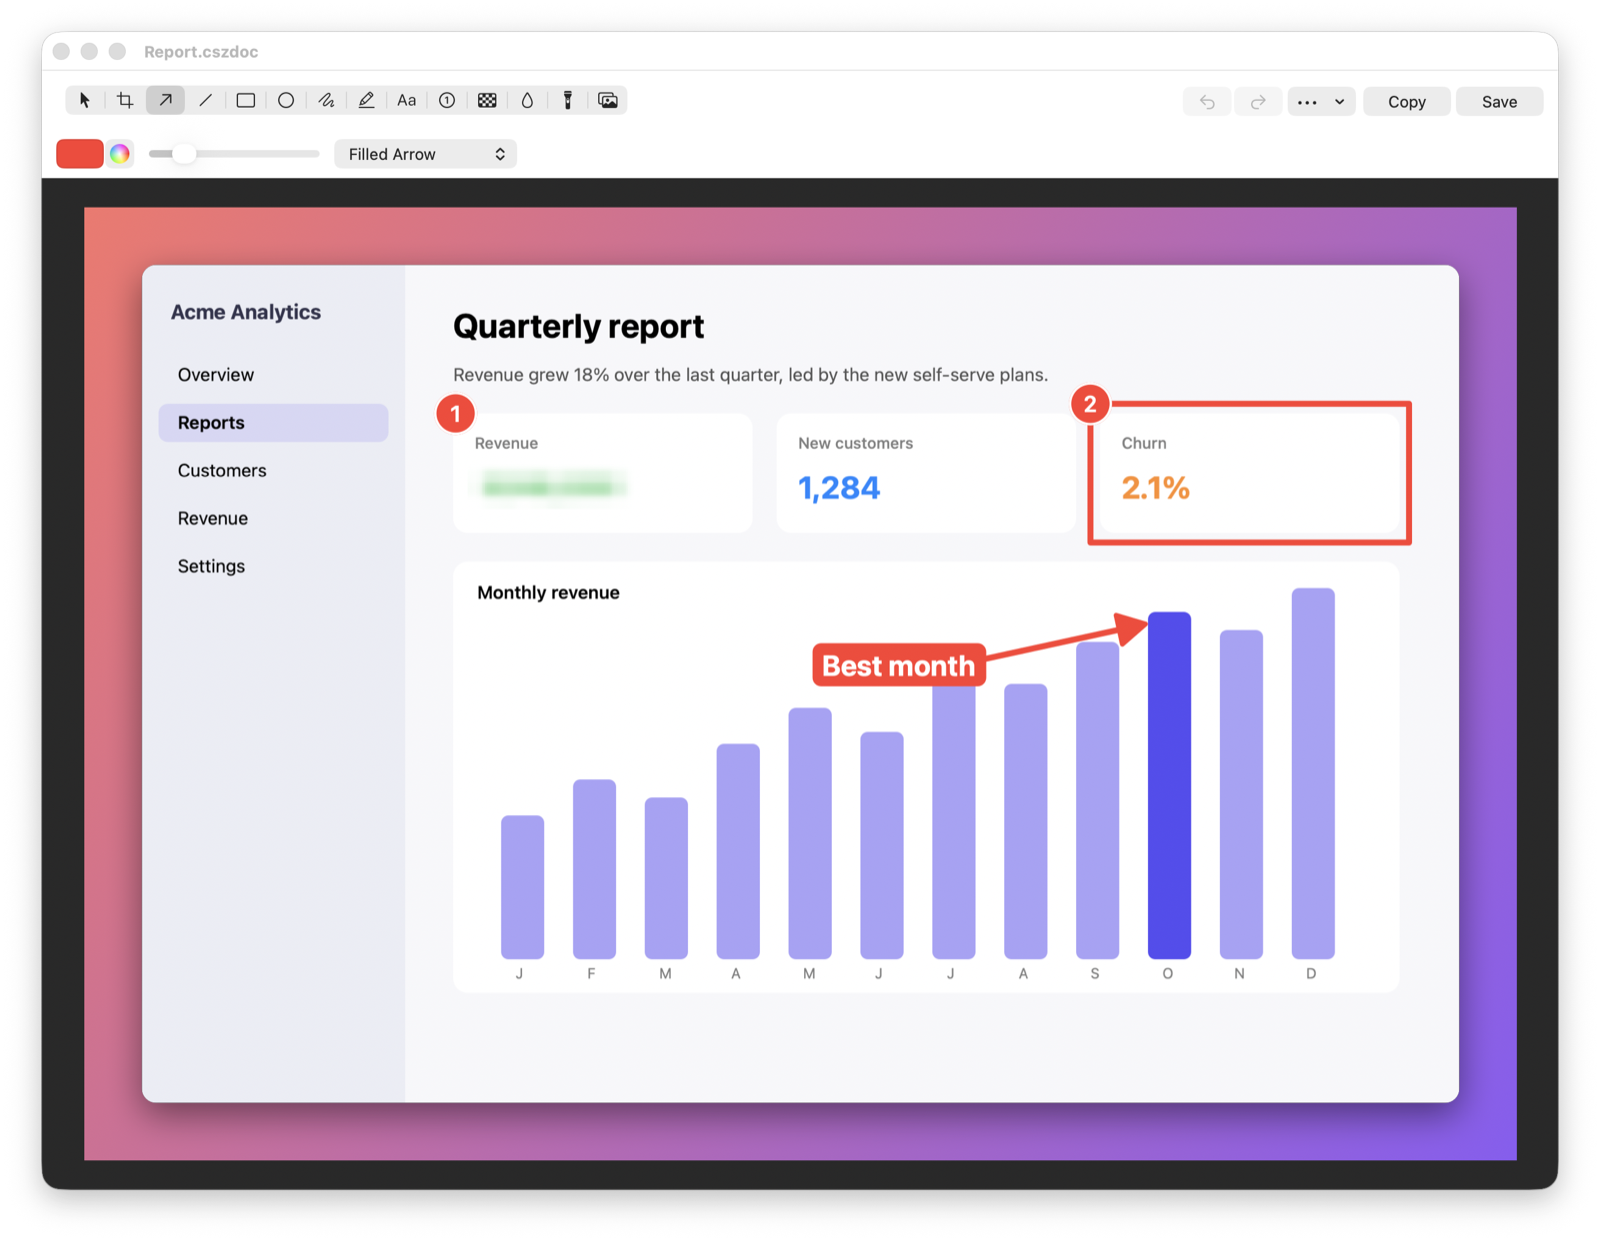
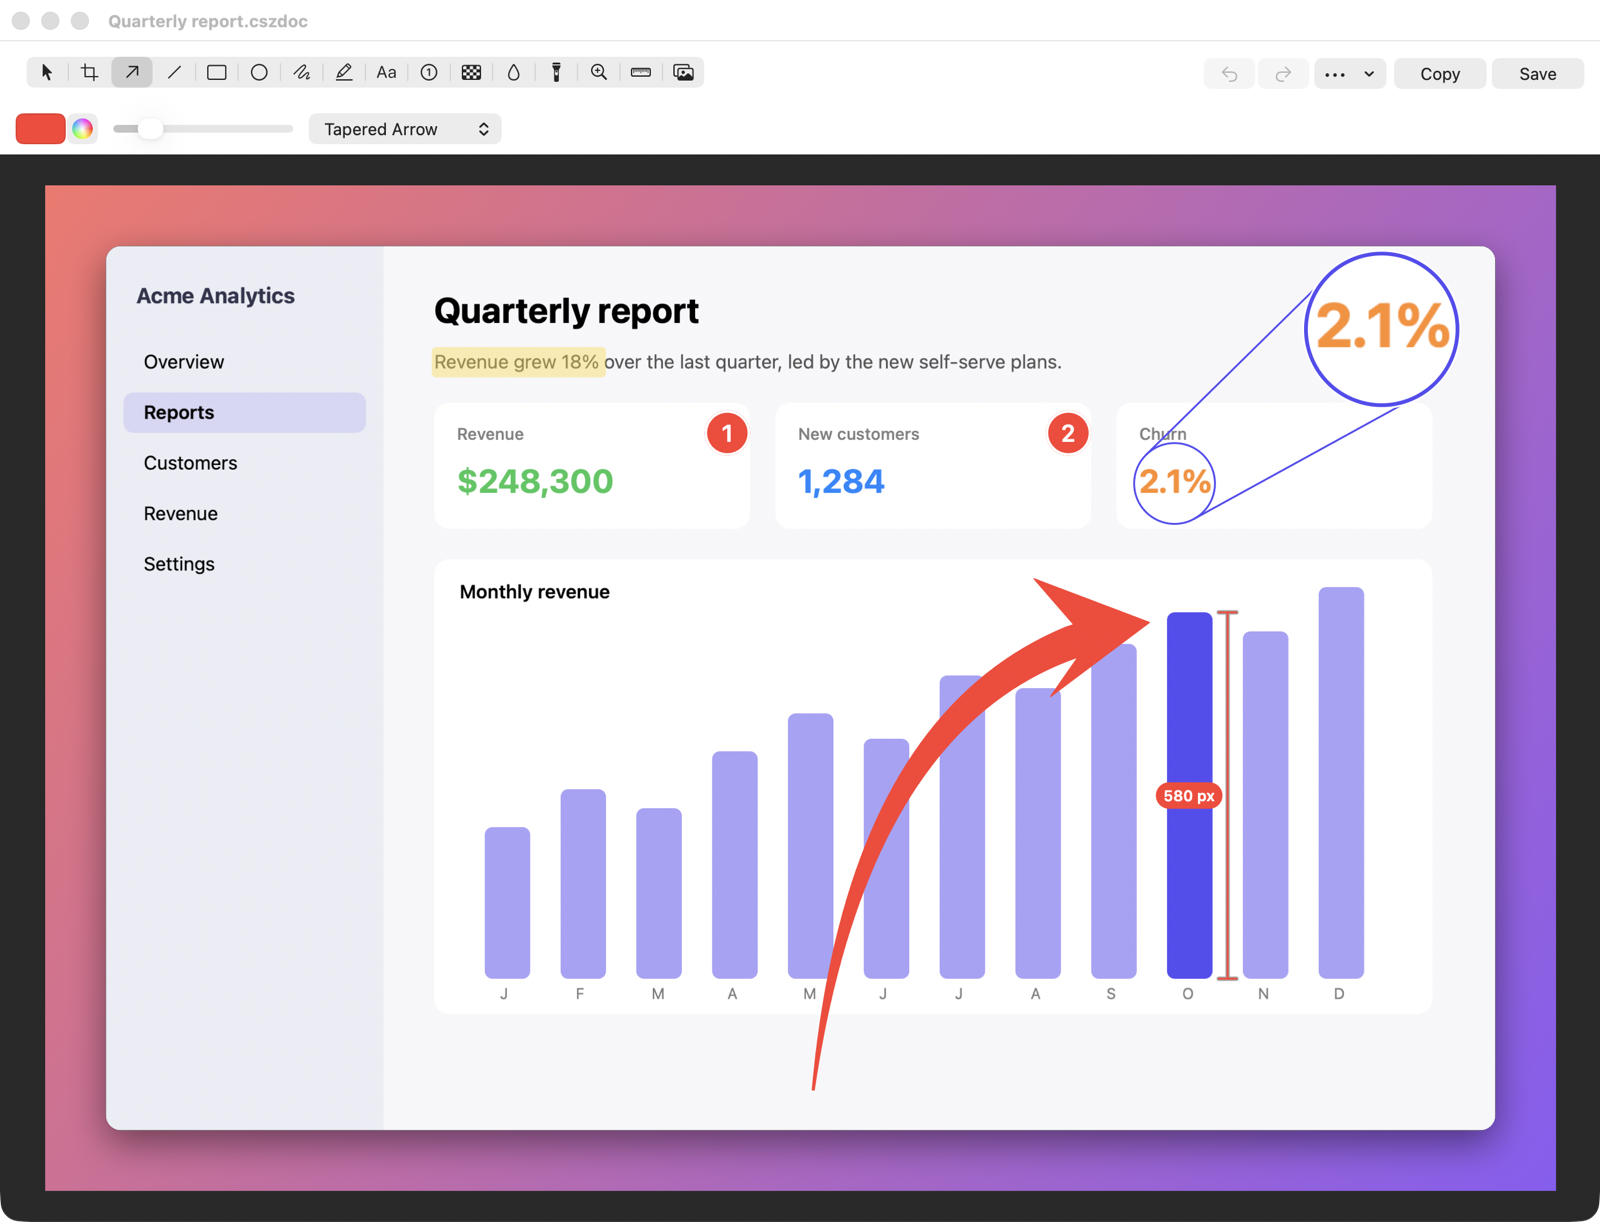
Release 0.5.0
README: new screenshots (editor tools, Studio editor, step guide,
History tags, snapping, Pick Color, the panel before recording) of
synthetic content, and the new features documented.

diff --git a/README.md b/README.md
@@ -12,11 +12,15 @@ and milestones.
 
 CleanShotZ is in early development; see [CHANGELOG.md](CHANGELOG.md).
 
-<img src="docs/screenshots/editor.png" width="800" alt="The annotation editor with arrows, text and a gradient background">
+<img src="docs/screenshots/editor.png" width="800" alt="The annotation editor with a curved tapered arrow, a magnified detail, a measurement, highlighted text and numbered steps on a gradient background">
 
-| Quick Access Overlay | Capture history |
+| Studio editor | Step capture guide |
 | --- | --- |
-| <img src="docs/screenshots/quick-access.png" width="286" alt="A Quick Access card with its actions"> | <img src="docs/screenshots/history.png" width="460" alt="The capture history window"> |
+| <img src="docs/screenshots/studio-editor.png" width="460" alt="The Studio editor with a background, cursor and zoom settings and the zoom track"> | <img src="docs/screenshots/step-guide.png" width="340" alt="A step guide with three captured clicks and their captions"> |
+
+| Capture history | Quick Access Overlay |
+| --- | --- |
+| <img src="docs/screenshots/history.png" width="460" alt="The capture history window with star ratings, tags and notes"> | <img src="docs/screenshots/quick-access.png" width="286" alt="A Quick Access card with its actions"> |
 
 | Video editor | Recording controls |
 | --- | --- |
@@ -147,6 +151,7 @@ modifiers (`cmd`, `shift`, `alt`/`opt`, `ctrl`) and one key, joined with
 | Scrolling Capture | `alt+shift+s` |
 | Capture Text | `alt+shift+o` |
 | Pick Color | none |
+| Step Capture | none |
 | Record Screen | `alt+shift+5` |
 | Record Screen (Studio) | none |
 | Capture History | none |
@@ -157,10 +162,15 @@ modifiers (`cmd`, `shift`, `alt`/`opt`, `ctrl`) and one key, joined with
   square, Option to grow from the center, Space while dragging to move the
   selection. Arrow keys move the pointer by 1 point (10 with Shift). Press
   Space before dragging to switch to window mode. Escape or right click
-  cancels.
+  cancels. Hold Command to snap to the button, field or panel under the
+  pointer (it is outlined with its size); a click then captures exactly
+  that element. Elements in other apps are found through the
+  accessibility API, so this needs Accessibility permission.
 - **Capture Window:** hover a window and click. Saved on a transparent
   background, with the window shadow by default.
-- **Capture Fullscreen:** the display under the pointer.
+- **Capture Fullscreen:** the display under the pointer. On a display with
+  a camera housing, the black band a full-screen app leaves beside it is
+  cropped away (`crop_notch`).
 - **Capture Previous Area:** the last selected area again, without the overlay.
 - **Self-Timer:** select an area or window, then capture after a countdown.
 - **Scrolling Capture** (`alt+shift+s`): select the part of a window that
@@ -180,6 +190,13 @@ modifiers (`cmd`, `shift`, `alt`/`opt`, `ctrl`) and one key, joined with
   copy the average color of an area. Hold Shift to copy `rgb(r, g, b)`
   instead. Colors are converted to sRGB, so they match what browsers and
   design apps show. Escape cancels.
+- **Step Capture:** for step-by-step guides. While it runs, every click
+  in another app saves a screenshot of the window under the pointer with
+  the click ringed. Click Done in the bar at the bottom of the screen (or
+  run Step Capture again) to open the steps as a guide (see below).
+
+<img src="docs/screenshots/snap.png" width="500" alt="Holding Command while selecting an area outlines the Export PDF button, 132 by 34 points">
+<img src="docs/screenshots/pick-color.png" width="300" alt="Pick Color's magnifier over a chart bar, showing #544DF2">
 
 Captures are copied to the clipboard (as PNG) and saved to the Desktop by
 default. Options live in the `[capture]` section of the settings file:
@@ -199,6 +216,7 @@ default. Options live in the `[capture]` section of the settings file:
 | `freeze_screen` | `false` | Freeze the screen while selecting |
 | `hide_desktop_icons` | `false` | Leave desktop icons and widgets out of captures |
 | `window_shadow` | `true` | Keep the shadow in window captures |
+| `crop_notch` | `true` | Crop the black band beside the camera housing from full-screen captures of full-screen apps |
 | `show_magnifier` | `true` | Show the pixel magnifier while selecting |
 | `self_timer_seconds` | `5` | Countdown length, 1 to 60 |
 | `play_sound` | `true` | Play the macOS screenshot sound |
@@ -206,6 +224,28 @@ default. Options live in the `[capture]` section of the settings file:
 
 The clipboard always gets PNG. WebP files are written in sRGB; lossless
 WebP files are usually noticeably smaller than PNG for screenshots.
+
+### Step capture
+
+<img src="docs/screenshots/step-guide.png" width="560" alt="A step guide with three captured clicks and their captions">
+
+The guide window lists the steps in order, each with its screenshot and a
+caption. Captions start out naming what was clicked ("Click “Export
+PDF”.", "Choose “Save As…”.", "Click the “Email” field.") when the app
+exposes it through the accessibility API (with Accessibility
+permission), or the app otherwise; what is typed into fields is never
+read. Edit the title and captions, remove steps you don't want, then
+Export:
+
+- **Markdown…** writes `Guide.md` and the images in a `Guide` folder next
+  to it, linked relatively, ready for a repository or wiki.
+- **HTML…** writes one page with the images inside it, to send or host as
+  is.
+- **PDF…** lays the guide out on pages of your default paper size, keeping
+  each step on one page.
+
+Window shadows are left out. Double-clicks count as one step, and a guide
+holds up to 100 steps. Closing a guide that was not exported asks first.
 
 ### Pipelines
 
@@ -254,6 +294,7 @@ Options live in the `[text]` section of the settings file:
 
 ### Screen recording
 
+<img src="docs/screenshots/ready-panel.png" width="560" alt="The panel before recording with the camera and microphone menus, Cancel and Record">
 <img src="docs/screenshots/recording-bar.png" width="220" alt="The recording bar">
 
 Record Screen (`alt+shift+5`) shows the selection overlay: drag to record an
@@ -320,6 +361,8 @@ seconds (muted, or the wrong input chosen), a message says so.
 
 ### Studio recordings
 
+<img src="docs/screenshots/studio-editor.png" width="640" alt="The Studio editor">
+
 Record Screen (Studio), or Record Screen with Studio mode on in Settings >
 Recording, records the screen without the pointer and keeps the pointer's
 movements, clicks, pressed keys and the camera apart. The recording opens
@@ -371,12 +414,21 @@ smaller size or moving the Quality slider re-encode it.
 
 ### Capture history
 
+<img src="docs/screenshots/history.png" width="640" alt="The capture history window with star ratings, tags and notes">
+
 Capture History… in the menu shows every screenshot and recording, newest
 first. Search finds captures by the text in them (recognized on your Mac in
-the background) or by file name, and the filter switches between all,
-screenshots and recordings. Double-click to open; right-click to Annotate or
-Edit, Copy, Show in Finder, Pin or Delete. Delete and Cmd+C work from the
-keyboard too.
+the background), by file name, note or tag, and the filter switches between
+all, screenshots, recordings and starred ones. Double-click to open;
+right-click to Annotate or Edit, Copy, Show in Finder, Pin, Print, Upload or
+Delete. Delete and Cmd+C work from the keyboard too.
+
+To organize captures, press 1 to 5 to give the selected one stars (0
+removes them; or use Rating in the context menu), and choose Tags and
+Note… to tag it and add a note. Tags and the start of the note show under
+the thumbnail. Search for `#bug` to see only captures tagged bug (`#bug
+#ui` needs both), or pick a tag from the Tags menu. Starred captures are
+kept however old they get.
 
 Captures you don't save are kept in `~/Library/Application Support/CleanShotZ/History`
 for as long as history keeps them. Deleting such an entry deletes its file;
@@ -386,7 +438,7 @@ the `[history]` section of the settings file:
 | Setting | Default | Meaning |
 | --- | --- | --- |
 | `enabled` | `true` | Keep a history of captures |
-| `retention_days` | `30` | Remove entries older than this; `0` keeps them |
+| `retention_days` | `30` | Remove entries older than this (starred ones are kept); `0` keeps them |
 | `recognize_text` | `true` | Recognize text in screenshots for search |
 
 ### Uploads
@@ -497,7 +549,9 @@ redo; Cmd+C copies the result; Cmd+S saves. Save writes over the capture (or,
 for opened images, saves a new capture). The ••• menu has Save As…, Save
 Project…, Pin to Screen, Copy Text, Redact Sensitive Info, Add Image to the
 Right… / Below…, Rotate Right / Left, Flip Horizontally / Vertically,
-Resize… and Export Before/After GIF….
+Resize…, Export Before/After GIF… and Print… (Cmd+P). Printing scales the
+image to the page width; a scrolling capture taller than a page continues
+on the next pages instead of shrinking.
 
 **Hand-drawn:** with arrows (other than tapered), lines and outlined
 rectangles and ellipses, the Hand-drawn checkbox draws them as if sketched
@@ -587,6 +641,7 @@ into your `PATH` to use it.
 | `all-in-one` | `x`, `y`, `width`, `height`, `display` (same as `capture-area`) |
 | `capture-text` | `filepath`, `x`, `y`, `width`, `height`, `display`, `linebreaks` |
 | `pick-color` | none |
+| `step-capture` | none (starts a step capture, or finishes the running one) |
 | `record-screen` | `x`, `y`, `width`, `height`, `display`, `studio` |
 | `pin` | `filepath` (asks for a file without it) |
 | `open-annotate` | `filepath` (asks for a file without it) |
@@ -640,8 +695,8 @@ The first time a script controls CleanShotZ, macOS asks you to allow it.
 
 CleanShotZ also offers actions to the Shortcuts app (and Spotlight): Capture
 Area, Capture Fullscreen, Capture Window, Capture Previous Area (each with an
-optional "Then" action), Capture Text, Pick Color, Scrolling Capture, Record
-Screen, Open Capture History, Hide Desktop Icons and Run Pipeline. Search for
+optional "Then" action), Capture Text, Pick Color, Step Capture, Scrolling
+Capture, Record Screen, Open Capture History, Hide Desktop Icons and Run Pipeline. Search for
 CleanShotZ in the Shortcuts app's action list. Every command is also available through
 the Open URLs action (`cleanshotz://...`), Run AppleScript, or Run Shell
 Script with the command line.
@@ -652,7 +707,7 @@ only the Command Line Tools the app builds without them.
 ### Raycast
 
 The [`raycast`](raycast) folder holds a Raycast extension with commands for
-every capture mode, recording, Pick Color, Capture History, and annotating,
+every capture mode, recording, Pick Color, Step Capture, Capture History, and annotating,
 pinning or running a pipeline on the image selected in Finder. It uses the
 URL scheme, so it needs nothing beyond CleanShotZ. To try it: `cd raycast &&
 npm install && npm run dev`.

diff --git a/PLAN.md b/PLAN.md
@@ -529,8 +529,9 @@ Group 4 of the October 2026 comparison.
   default). Only a band that is black edge to edge is removed, so normal
   captures keep the menu bar.
 - **Printing** (CleanShot X): Print… in the editor's ••• menu (Command-P)
-  and in History's context menu prints the image; scrolling captures (taller than a page) are
-  split across pages at full width instead of being shrunk onto one.
+  and in History's context menu prints the image; scrolling captures
+  (taller than a page) are split across pages at full width instead of
+  being shrunk onto one.
 - **Snap to UI elements** (Snipaste): while selecting an area, holding
   Command snaps the selection to the button, field or panel under the
   pointer (found through the accessibility API, with Accessibility
@@ -543,6 +544,21 @@ Group 4 of the October 2026 comparison.
   of the window under the pointer at every click, numbered and with the
   click marked, until stopped; then exports one guide as Markdown (with
   the images), HTML or PDF, with a title and an editable caption per step.
+- Status: done in 0.5.0. Notes:
+  - This app cannot answer accessibility requests about itself from its
+    main thread, so snapping inside CleanShotZ's own windows hit-tests
+    their views directly.
+  - Snapping and step capture also consider other apps' floating windows
+    (below the Dock's level); window mode still only picks normal ones,
+    since some utilities keep invisible floating overlays.
+  - Step captions read titles, descriptions and placeholders of controls
+    only, never values, so typed text stays out of guides. The window is
+    captured just after the click, so it shows the click's effect (a
+    checked box, a selected tab).
+  - Starred captures are exempt from history pruning.
+  - Not tested on real hardware: notch cropping (needs a full-screen app
+    on a notched display) and printing to a real printer (tested with
+    the print panel and PDF).
 
 ### Future work
 - **Captions** (from group 3, deferred): subtitles made on the Mac with

diff --git a/CHANGELOG.md b/CHANGELOG.md
@@ -6,8 +6,26 @@ All notable changes to CleanShotZ. The format follows
 
 ## [Unreleased]
 
+## [0.5.0] - 2026-10-11
+
 ### Added
 
+- Step Capture: every click in another app saves a screenshot of the
+  window under the pointer with the click ringed; the steps open as a
+  guide with a title and captions that name the clicked control, and
+  export as Markdown (with an images folder), one HTML file or PDF. In
+  the menu, as a shortcut, `step-capture` command, AppleScript, Shortcuts
+  and Raycast.
+- History: star ratings (keys 1 to 5), tags and a note for each capture,
+  a Starred filter, a Tags menu, and searching by `#tag` and note text.
+  Starred captures are kept past the retention period.
+- Capture Area: hold Command to snap the selection to the button, field
+  or panel under the pointer, in other apps (with Accessibility
+  permission) and floating windows too.
+- Print… (Cmd+P) in the editor and in History; captures taller than a
+  page continue across pages at full width.
+- Full-screen captures of full-screen apps drop the black band beside the
+  camera housing (`crop_notch`, on by default).
 - Choose the camera and microphone (or none) before recording, in a panel
   like QuickTime Player's; a chosen camera shows its bubble right away and
   the choice is remembered.
@@ -117,7 +135,8 @@ screenshots, screen recordings and annotations on macOS 14 and later
   AppleScript and Shortcuts actions.
 - Settings window with a shortcut recorder; everything also in a TOML file.
 
-[Unreleased]: https://github.com/houseofmackee/cleanshotz/compare/v0.4.1...HEAD
+[Unreleased]: https://github.com/houseofmackee/cleanshotz/compare/v0.5.0...HEAD
+[0.5.0]: https://github.com/houseofmackee/cleanshotz/compare/v0.4.1...v0.5.0
 [0.4.1]: https://github.com/houseofmackee/cleanshotz/compare/v0.4.0...v0.4.1
 [0.4.0]: https://github.com/houseofmackee/cleanshotz/compare/v0.3.0...v0.4.0
 [0.3.0]: https://github.com/houseofmackee/cleanshotz/compare/v0.2.0...v0.3.0
